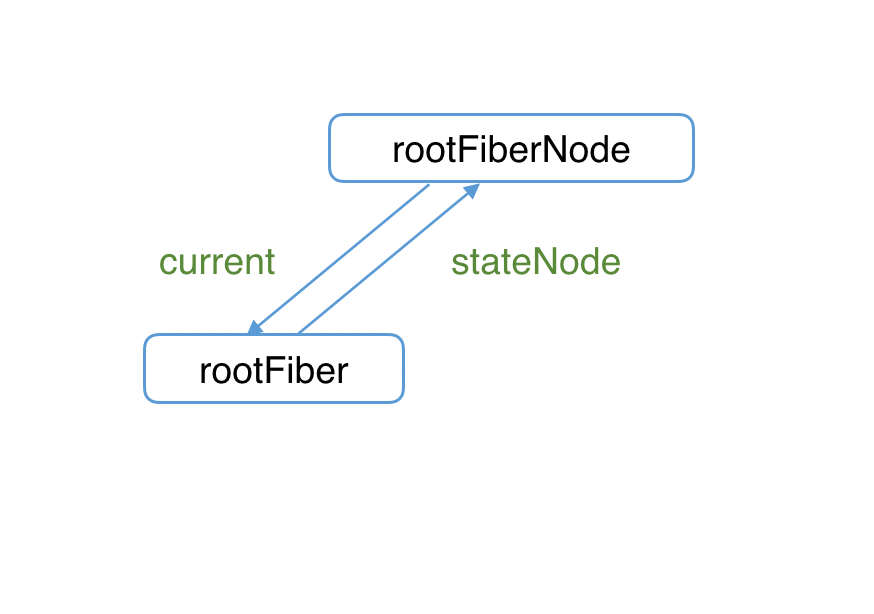
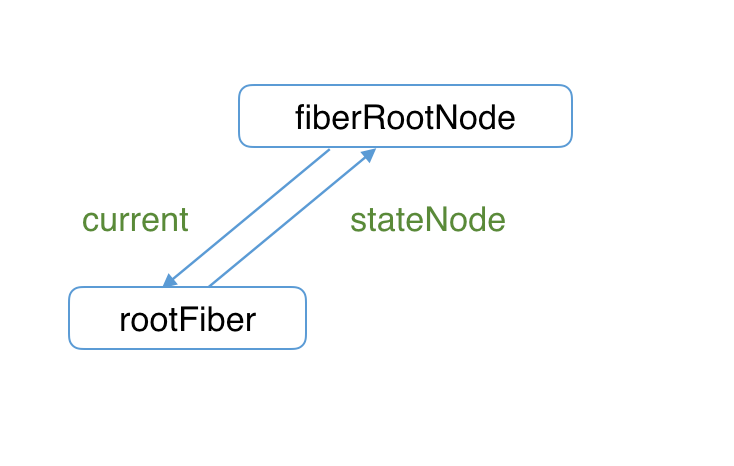
rootFiberNode 改为 fiberRootNode

diff --git a/docs/state/reactdom.md b/docs/state/reactdom.md
@@ -4,7 +4,7 @@
 
 ## 创建fiber
 
-从[双缓存机制一节](../process/doubleBuffer.html#mount时)我们知道，首次执行`ReactDOM.render`会创建`rootFiberNode`和`rootFiber`。其中`rootFiberNode`是整个应用的根节点，`rootFiber`是要渲染组件所在组件树的`根节点`。
+从[双缓存机制一节](../process/doubleBuffer.html#mount时)我们知道，首次执行`ReactDOM.render`会创建`fiberRootNode`和`rootFiber`。其中`fiberRootNode`是整个应用的根节点，`rootFiber`是要渲染组件所在组件树的`根节点`。
 
 这一步发生在调用`ReactDOM.render`后进入的`legacyRenderSubtreeIntoContainer`方法中。
 
@@ -19,7 +19,7 @@ fiberRoot = root._internalRoot;
 
 > 你可以从[这里](https://github.com/facebook/react/blob/970fa122d8188bafa600e9b5214833487fbf1092/packages/react-dom/src/client/ReactDOMLegacy.js#L193)看到这一步的代码
 
-`legacyCreateRootFromDOMContainer`方法内部会调用`createFiberRoot`方法完成`rootFiberNode`和`rootFiber`的创建以及关联。并初始化`updateQueue`。
+`legacyCreateRootFromDOMContainer`方法内部会调用`createFiberRoot`方法完成`fiberRootNode`和`rootFiber`的创建以及关联。并初始化`updateQueue`。
 
 ```js
 export function createFiberRoot(
@@ -28,13 +28,13 @@ export function createFiberRoot(
   hydrate: boolean,
   hydrationCallbacks: null | SuspenseHydrationCallbacks,
 ): FiberRoot {
-  // 创建rootFiberNode
+  // 创建fiberRootNode
   const root: FiberRoot = (new FiberRootNode(containerInfo, tag, hydrate): any);
   
   // 创建rootFiber
   const uninitializedFiber = createHostRootFiber(tag);
 
-  // 连接rootFiber与rootFiberNode
+  // 连接rootFiber与fiberRootNode
   root.current = uninitializedFiber;
   uninitializedFiber.stateNode = root;
 
@@ -45,7 +45,7 @@ export function createFiberRoot(
 }
 ```
 
-根据以上代码，现在我们可以在[双缓存机制一节](../process/doubleBuffer.html#mount时)基础上补充上`rootFiber`到`rootFiberNode`的引用。
+根据以上代码，现在我们可以在[双缓存机制一节](../process/doubleBuffer.html#mount时)基础上补充上`rootFiber`到`fiberRootNode`的引用。
 
 <img :src="$withBase('/img/fiberroot.png')" alt="fiberRoot">
 
@@ -100,7 +100,7 @@ export function updateContainer(
 整个流程如下：
 
 ```sh
-创建rootFiberNode、rootFiber、updateQueue（`legacyCreateRootFromDOMContainer`）
+创建fiberRootNode、rootFiber、updateQueue（`legacyCreateRootFromDOMContainer`）
 
     |
     |

diff --git a/docs/process/doubleBuffer.md b/docs/process/doubleBuffer.md
@@ -50,19 +50,19 @@ function App() {
 ReactDOM.render(<App/>, document.getElementById('root'));
 ```
 
-1. 首次执行`ReactDOM.render`会创建`rootFiberNode`和`rootFiber`。其中`rootFiberNode`是整个应用的根节点，`rootFiber`是`<App/>`所在组件树的根节点。
+1. 首次执行`ReactDOM.render`会创建`fiberRootNode`（源码中叫`fiberRoot`）和`rootFiber`。其中`fiberRootNode`是整个应用的根节点，`rootFiber`是`<App/>`所在组件树的根节点。
 
-之所以要区分`rootFiberNode`与`rootFiber`，是因为在应用中我们可以多次调用`ReactDOM.render`渲染不同的组件树，他们会拥有不同的`rootFiber`。但是整个应用的根节点只有一个，那就是`rootFiberNode`。
+之所以要区分`fiberRootNode`与`rootFiber`，是因为在应用中我们可以多次调用`ReactDOM.render`渲染不同的组件树，他们会拥有不同的`rootFiber`。但是整个应用的根节点只有一个，那就是`fiberRootNode`。
 
-`rootFiberNode`的`current`会指向当前页面上已渲染内容对应对`Fiber树`，被称为`current Fiber树`。
+`fiberRootNode`的`current`会指向当前页面上已渲染内容对应对`Fiber树`，被称为`current Fiber树`。
 
 <img :src="$withBase('/img/rootfiber.png')" alt="rootFiber">
 
 ```js
-rootFiberNode.current = rootFiber;
+fiberRootNode.current = rootFiber;
 ```
 
-由于是首屏渲染，页面中还没有挂载任何`DOM`，所以`rootFiberNode.current`指向的`rootFiber`没有任何`子Fiber节点`（即`current Fiber树`为空）。
+由于是首屏渲染，页面中还没有挂载任何`DOM`，所以`fiberRootNode.current`指向的`rootFiber`没有任何`子Fiber节点`（即`current Fiber树`为空）。
 
 
 2. 接下来进入`render阶段`，根据组件返回的`JSX`在内存中依次创建`Fiber节点`并连接在一起构建`Fiber树`，被称为`workInProgress Fiber树`。（下图中右侧为内存中构建的树，左侧为页面显示的树）
@@ -73,7 +73,7 @@ rootFiberNode.current = rootFiber;
 
 3. 图中右侧已构建完的`workInProgress Fiber树`在`commit阶段`渲染到页面。
 
-此时`DOM`更新为右侧树对应的样子。`rootFiberNode`的`current`指针指向`workInProgress Fiber树`使其变为`current Fiber 树`。
+此时`DOM`更新为右侧树对应的样子。`fiberRootNode`的`current`指针指向`workInProgress Fiber树`使其变为`current Fiber 树`。
 
 <img :src="$withBase('/img/wipTreeFinish.png')" alt="workInProgressFiberFinish">
 

diff --git a/docs/process/beginWork.md b/docs/process/beginWork.md
@@ -23,7 +23,7 @@ function beginWork(
 - workInProgress：当前组件对应的`Fiber节点`
 - renderLanes：优先级相关，在讲解`Scheduler`时再讲解
 
-从[双缓存机制一节](./doubleBuffer.html)我们知道，除[`rootFiberNode`](./doubleBuffer.md#mount%E6%97%B6)以外， 组件`mount`时，由于是首次渲染，是不存在当前组件对应的`Fiber节点`在上一次更新时的`Fiber节点`，即`mount`时`current === null`。
+从[双缓存机制一节](./doubleBuffer.html)我们知道，除[`fiberRootNode`](./doubleBuffer.md#mount%E6%97%B6)以外， 组件`mount`时，由于是首次渲染，是不存在当前组件对应的`Fiber节点`在上一次更新时的`Fiber节点`，即`mount`时`current === null`。
 
 组件`update`时，由于之前已经`mount`过，所以`current !== null`。
 
@@ -33,7 +33,7 @@ function beginWork(
 
 - `update`时：如果`current`存在，在满足一定条件时可以复用`current`节点，这样就能克隆`current.child`作为`workInProgress.child`，而不需要新建`workInProgress.child`。
 
-- `mount`时：除`rootFiberNode`以外，`current === null`。会根据`fiber.tag`不同，创建不同类型的`子Fiber节点`
+- `mount`时：除`fiberRootNode`以外，`current === null`。会根据`fiber.tag`不同，创建不同类型的`子Fiber节点`
 
 ```js
 function beginWork(

diff --git a/docs/renderer/layout.md b/docs/renderer/layout.md
@@ -133,7 +133,7 @@ root.current = finishedWork;
 
 > 你可以在[这里](https://github.com/facebook/react/blob/970fa122d8188bafa600e9b5214833487fbf1092/packages/react-reconciler/src/ReactFiberWorkLoop.new.js#L2022)看到这行代码
 
-在[双缓存机制一节](../process/doubleBuffer.html#什么是-双缓存)我们介绍过，`workInProgress Fiber树`在`commit阶段`完成渲染后会变为`current Fiber树`。这行代码的作用就是切换`rootFiberNode`指向的`current Fiber树`。
+在[双缓存机制一节](../process/doubleBuffer.html#什么是-双缓存)我们介绍过，`workInProgress Fiber树`在`commit阶段`完成渲染后会变为`current Fiber树`。这行代码的作用就是切换`fiberRootNode`指向的`current Fiber树`。
 
 那么这行代码为什么在这里呢？（在`mutation阶段`结束后，`layout阶段`开始前。）
 
